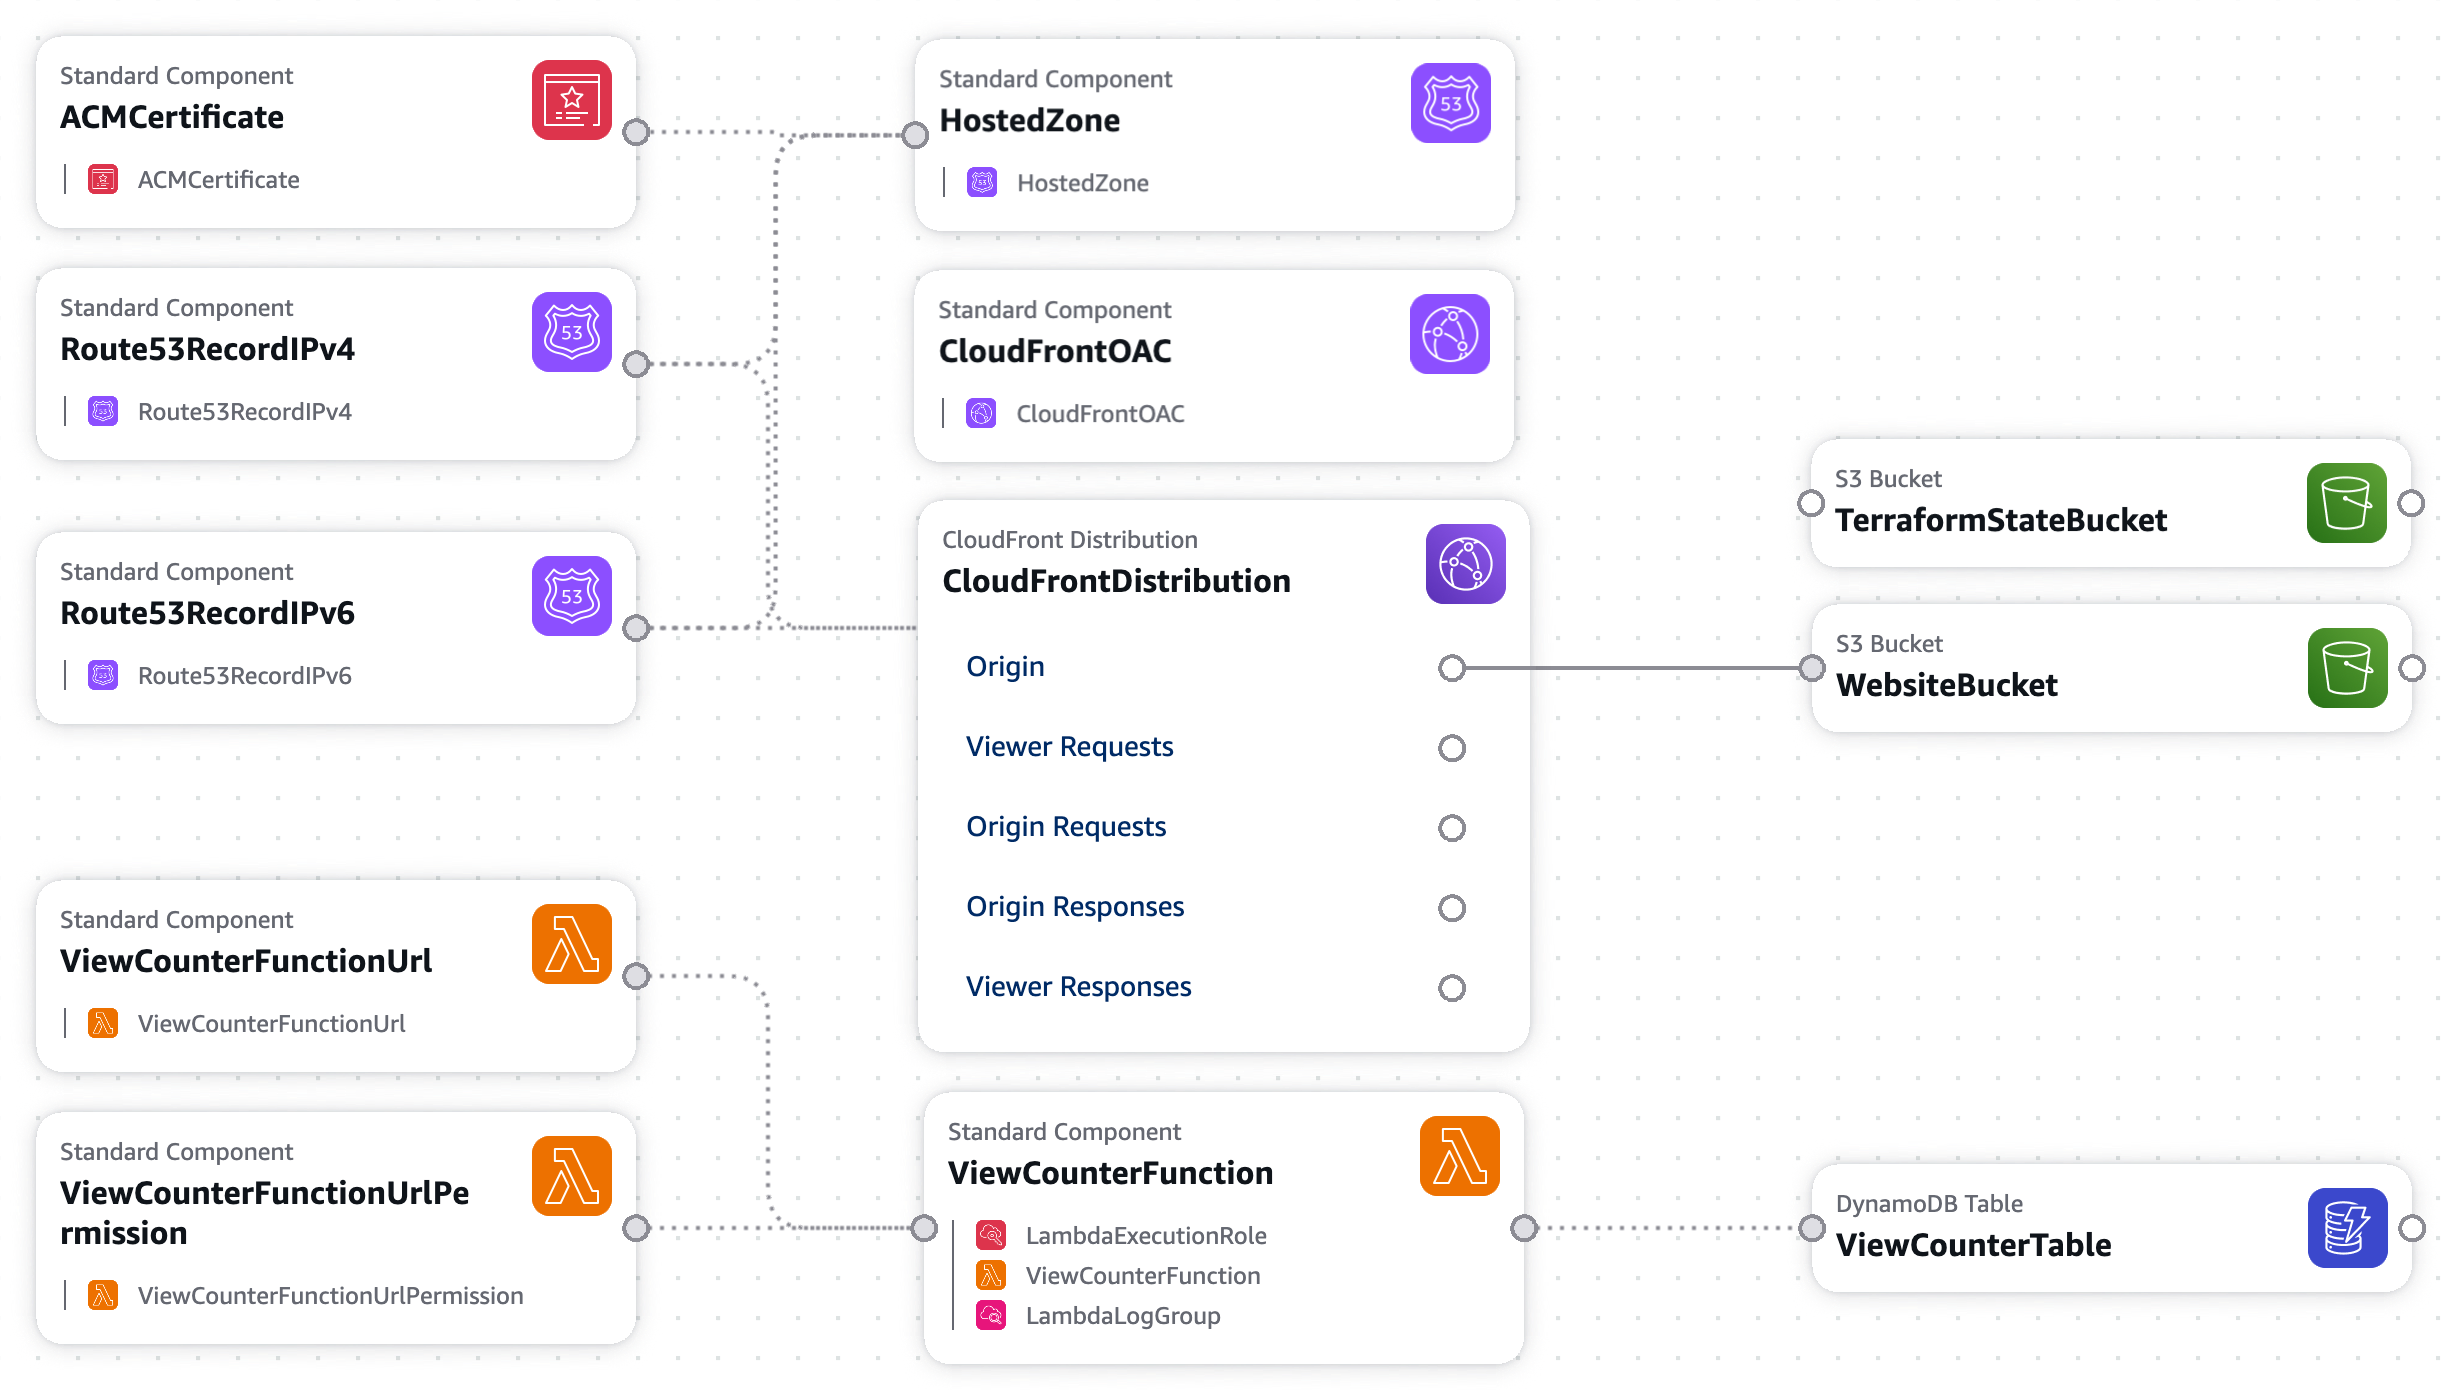
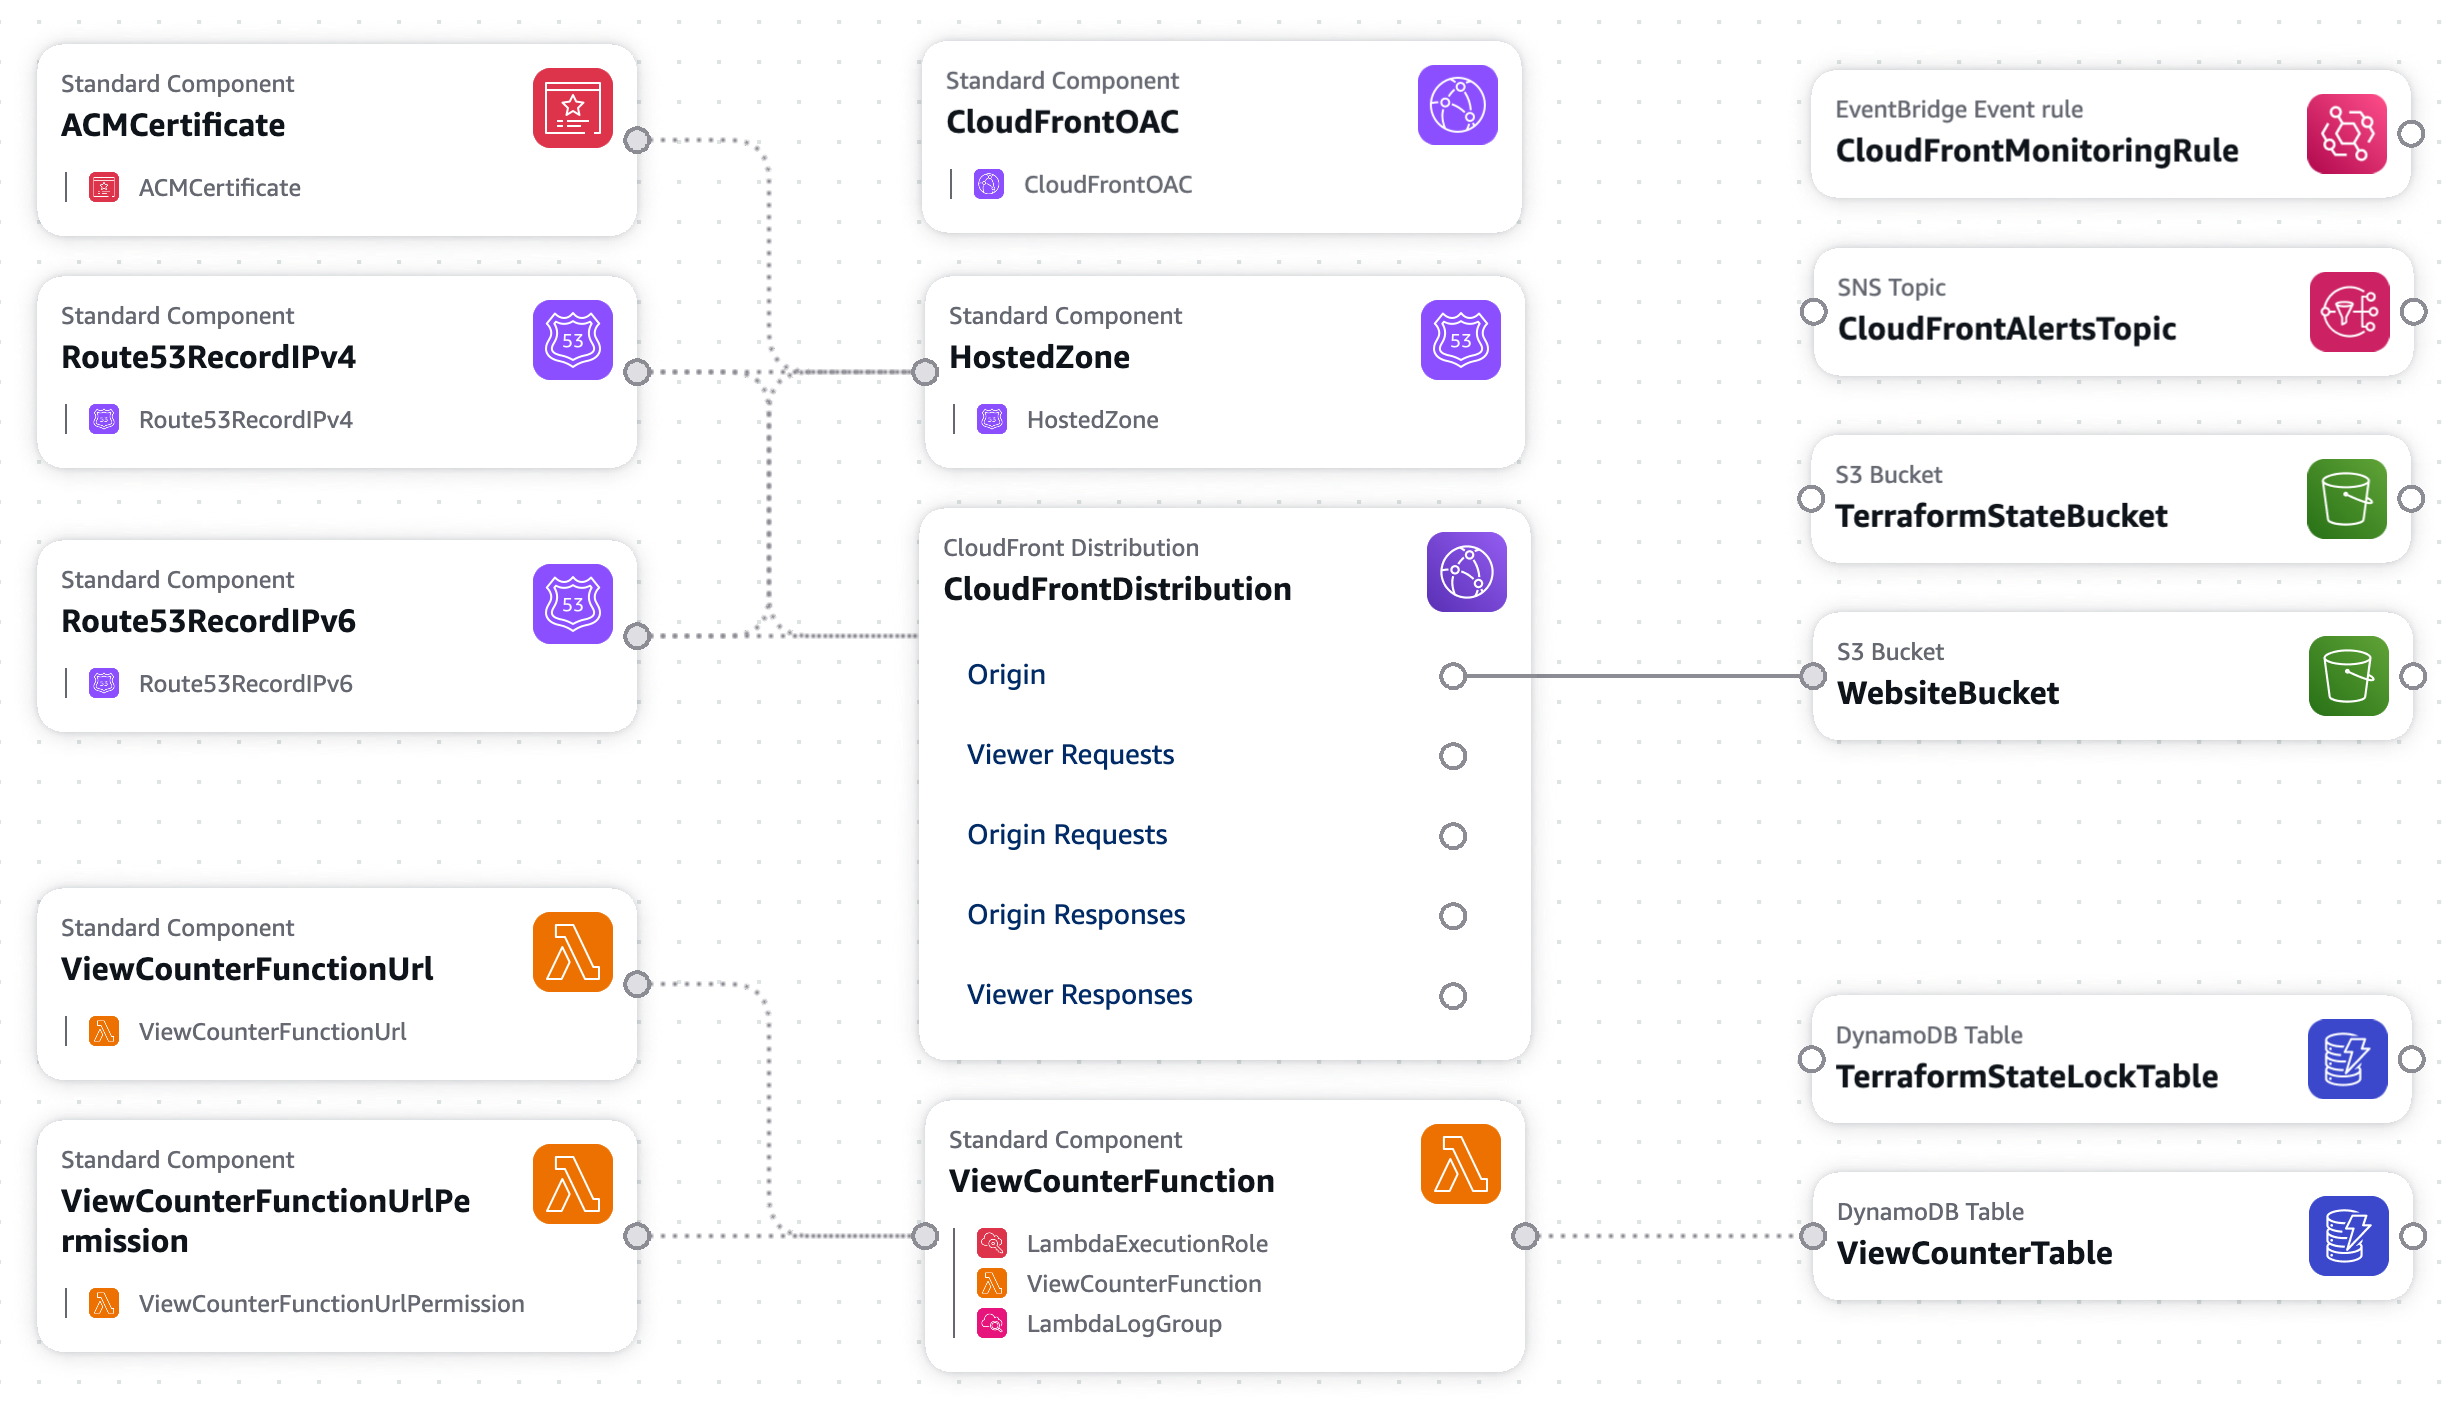
Updated CRC Component Diagram

diff --git a/index.html b/index.html
@@ -230,6 +230,7 @@
                                 <li><strong>AWS Certificate Manager:</strong> Free SSL/TLS certificate with automatic renewal, deployed in us-east-1 for CloudFront compatibility.</li>
                                 <li><strong>S3 Static Hosting:</strong> Versioned bucket with encryption at rest, private access via CloudFront OAC, optimized cache headers for performance.</li>
                                 <li><strong>DynamoDB:</strong> Serverless NoSQL database with on-demand billing, atomic increment operations, and single-digit millisecond latency.</li>
+                                <li><strong>Infrastructure Monitoring:</strong> EventBridge rules detect CloudFront API changes (create, update, delete operations) and send real-time email alerts via SNS, providing security monitoring and change tracking for critical infrastructure components.</li>
                             </ul>
 
                             <h4>Separation of Concerns</h4>
@@ -248,6 +249,8 @@
                         <span class="tech-tag">S3</span>
                         <span class="tech-tag">Route53</span>
                         <span class="tech-tag">ACM</span>
+                        <span class="tech-tag">EventBridge</span>
+                        <span class="tech-tag">SNS</span>
                         <span class="tech-tag">GitHub Actions</span>
                         <span class="tech-tag">Python</span>
                     </div>
